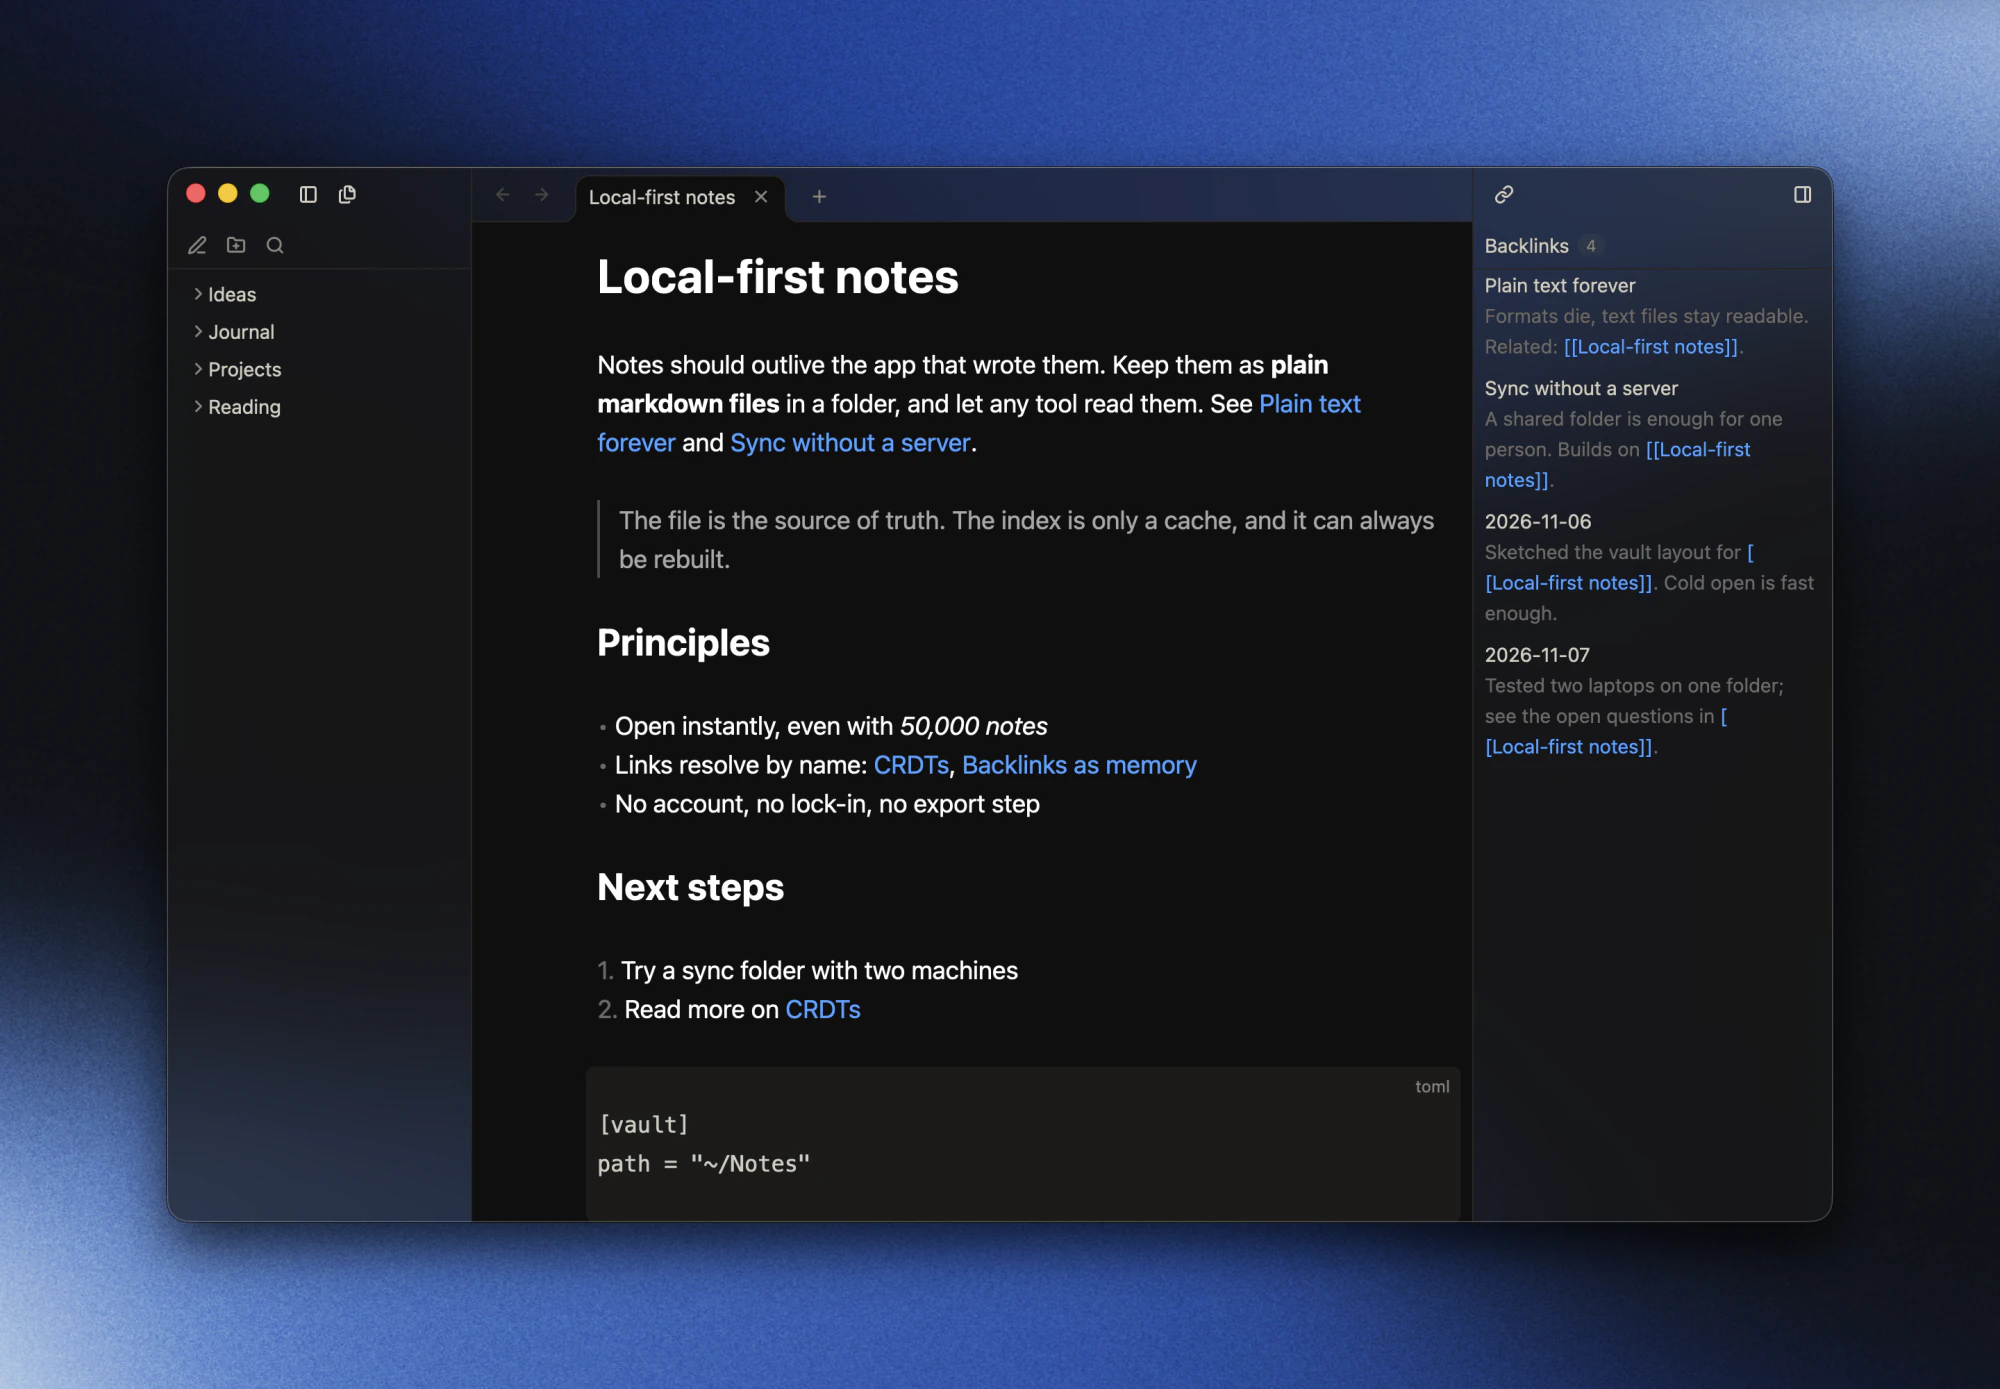
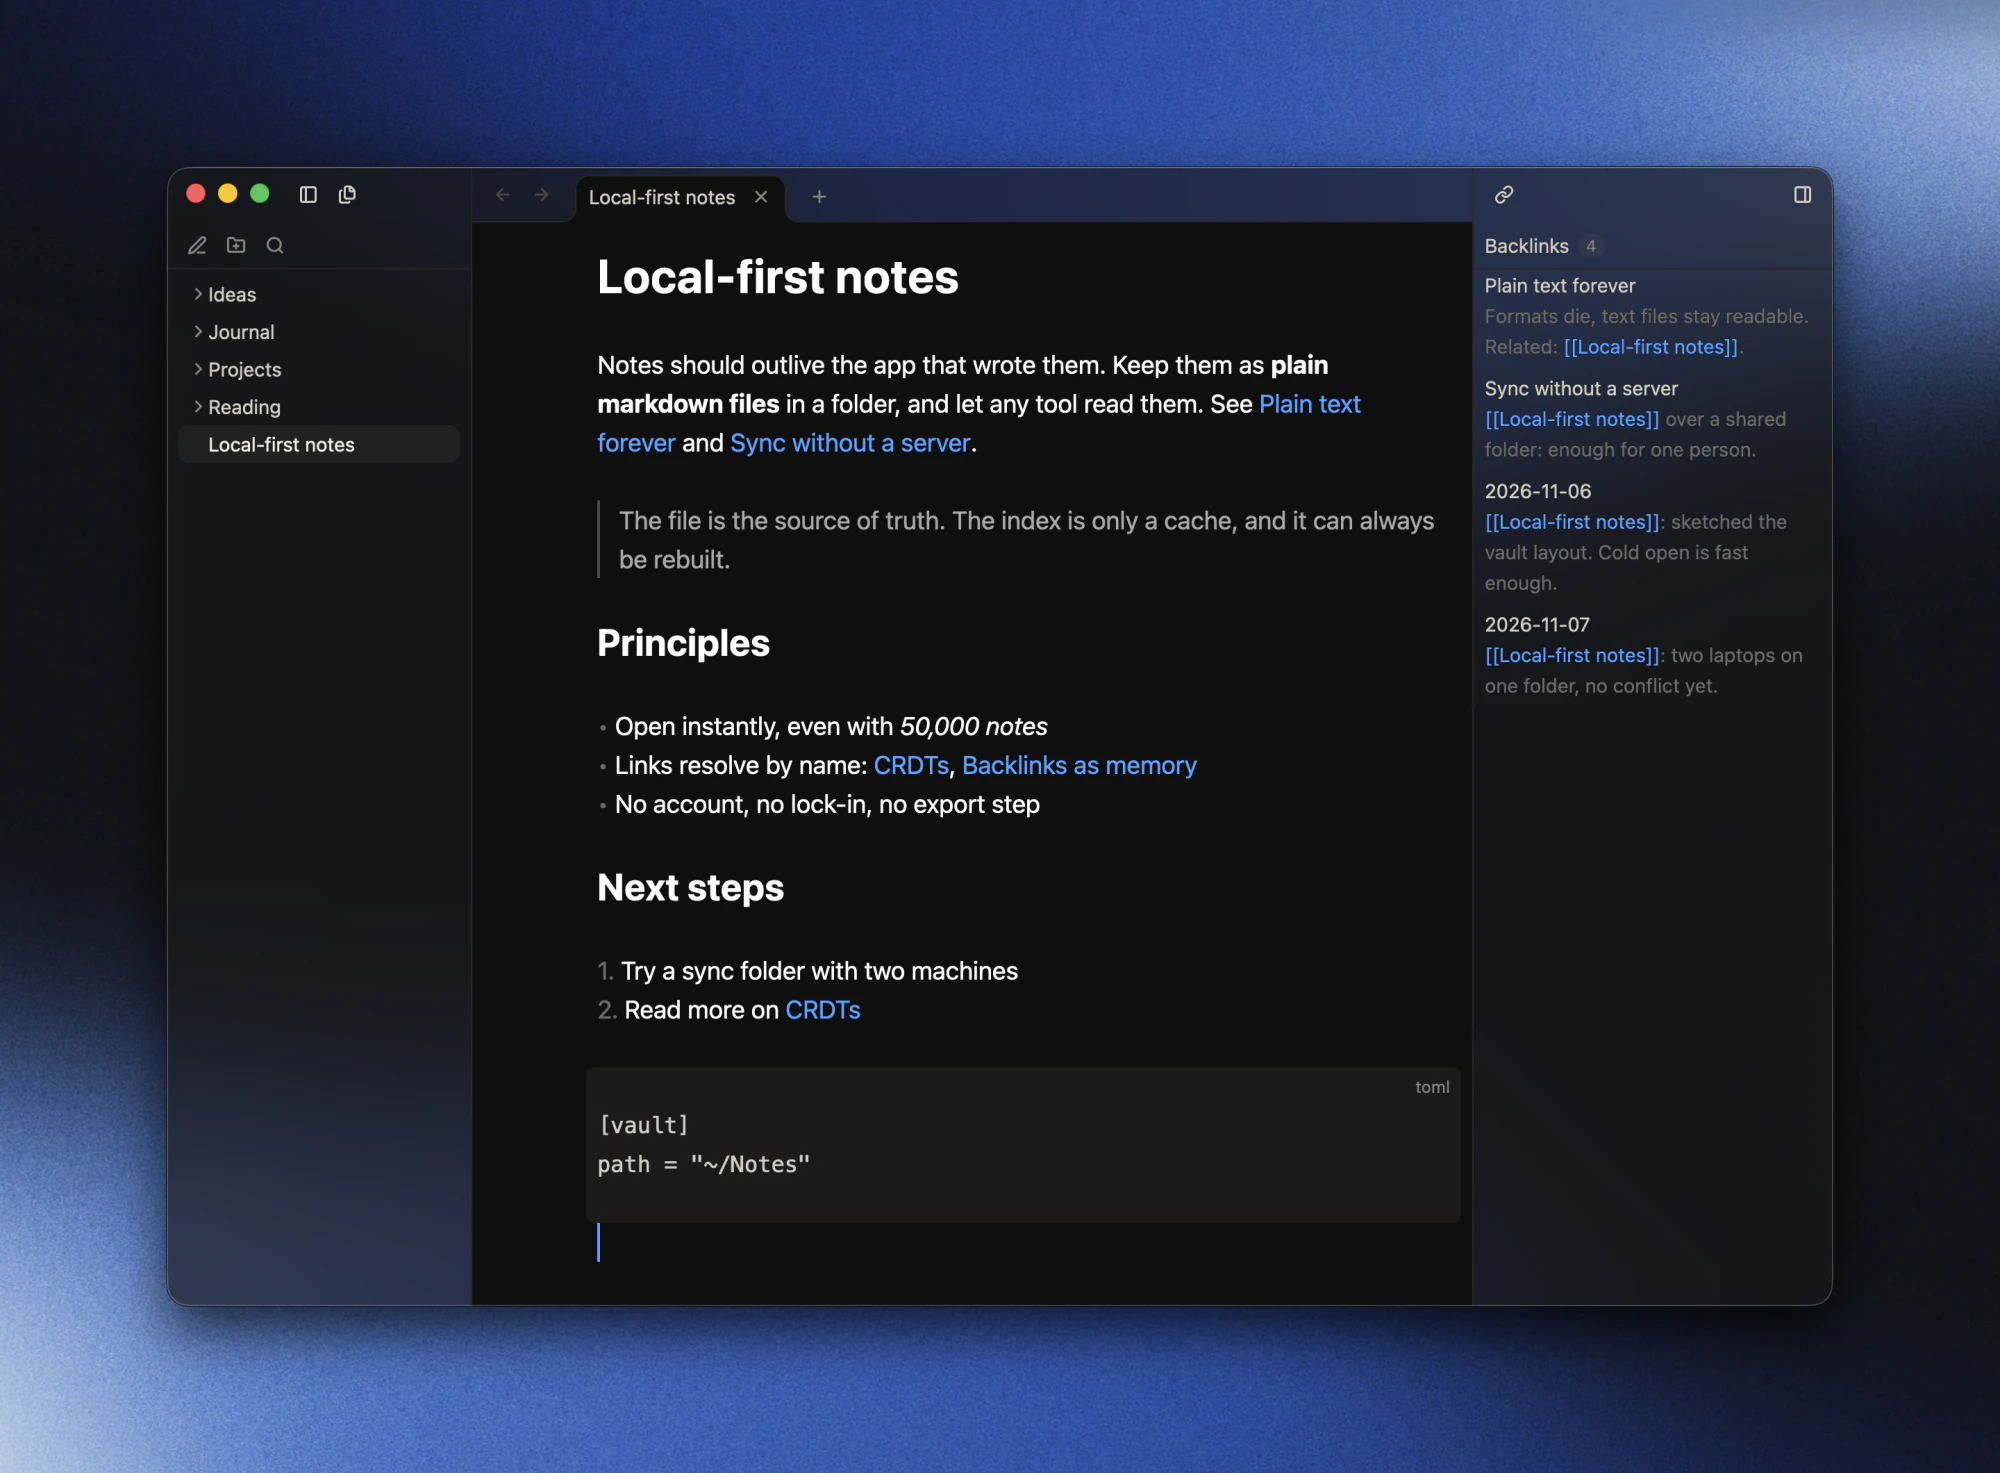
Retake the README capture, fix the screenshot script, drop the task boxes claim (#3)
* Keep the screenshot script off a running inkra-app

System Events resolves a process by name, so with the user's own
inkra-app open the script moved and captured that window. The app now
runs as a renamed copy. The pointer is moved off the window so no row
shows hovered, and a wallpaper already shown is not set again: no pixel
changes and the wait would fail.

* Retake the README capture and drop the task boxes claim

Task boxes are tranche S3 of the markdown blocks spec, not built yet.
The capture shows the active note in the tree and the code block whole.

diff --git a/README.md b/README.md
@@ -15,7 +15,7 @@ one 17 MB binary, one process.
 ## Features
 
 - **Markdown live preview**: styled as you type, markup hidden until the caret
-  or the selection touches it. Quotes, lists, task boxes and code blocks.
+  or the selection touches it. Quotes, lists and code blocks.
 - **Links**: `[[wikilinks]]` to notes and files, a backlinks panel, `⌘Enter`
   to follow a link.
 - **Search**: `⌘P` quick open by word start on names and text, `⌘⇧F` vault
@@ -31,7 +31,8 @@ one 17 MB binary, one process.
   that follows edits made outside the app.
 - **Instant reopen**: the index is cached on disk, the last tabs come back.
 
-Not yet: syntax highlighting in code blocks, plugins, sync, Windows and Linux.
+Not yet: task boxes, syntax highlighting in code blocks, plugins, sync, Windows
+and Linux.
 
 ## Performance
 
